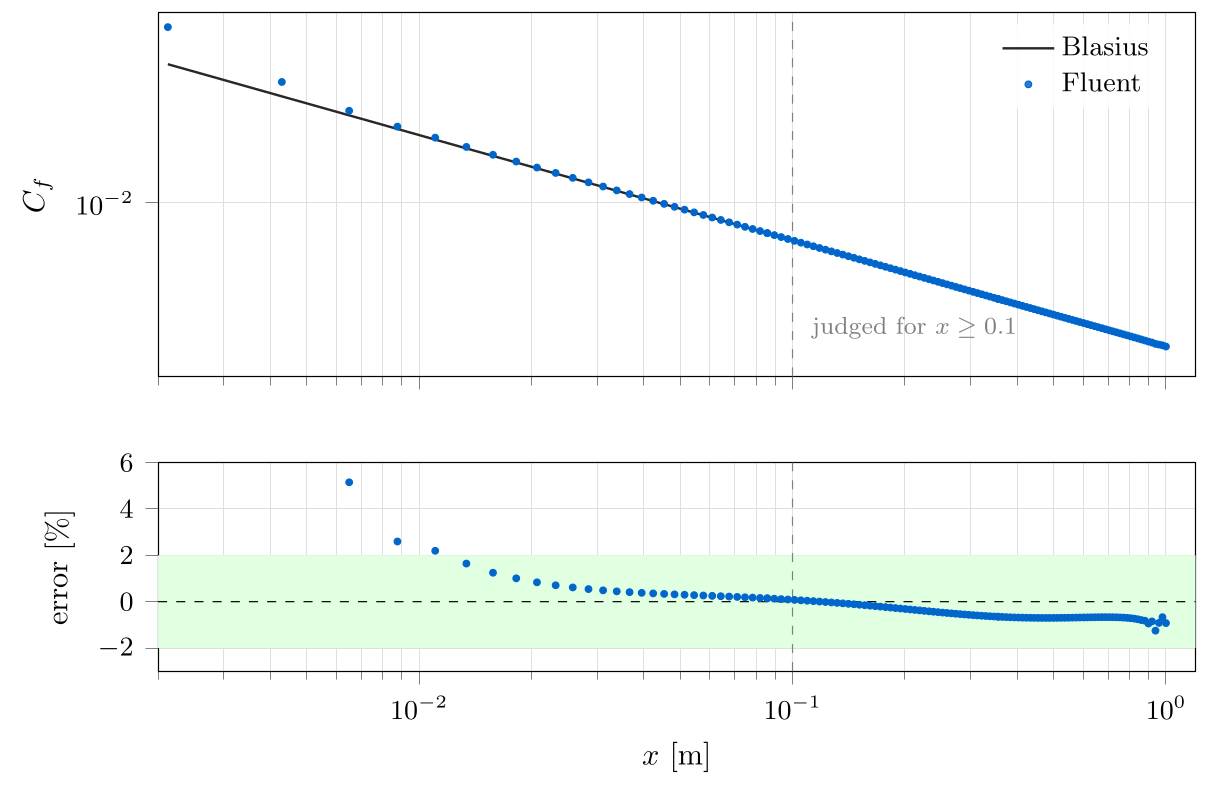
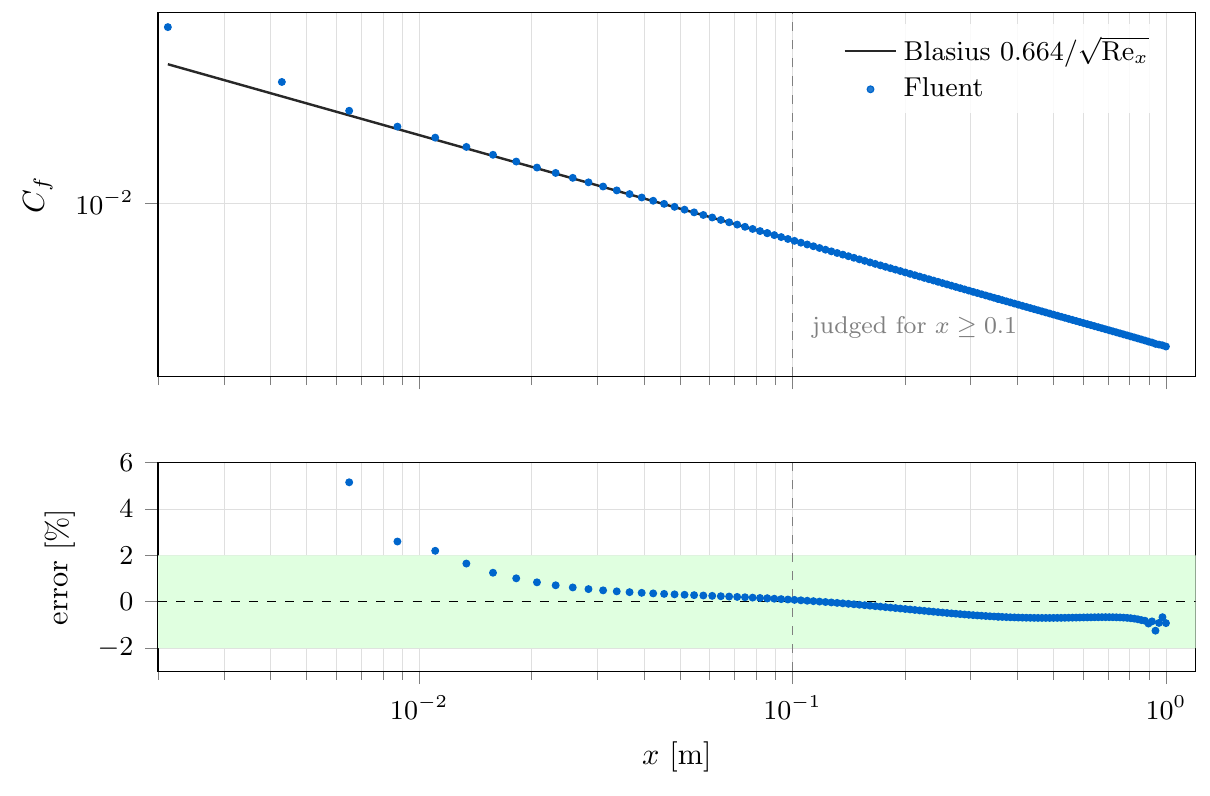
Show the Blasius formula in the skin friction legend

diff --git a/_portfolio/fluent-flat-plate.md b/_portfolio/fluent-flat-plate.md
@@ -101,10 +101,12 @@ wall are small enough.
 
 ![Skin friction](/images/flatplate/flatplate_cf.png)
 
-*Top: $$C_f$$ against Blasius. Bottom: error in percent, with the $$\pm 2\%$$ band shaded. Two
-points near the leading edge are off the scale ($$+50\%$$ and $$+17\%$$). The large error near
+*Top: $$C_f$$ against Blasius. Bottom: error in percent, with the $$\pm 2\%$$ band shaded. The first
+two points ($$x < 0.005$$ m, errors $$+50\%$$ and $$+17\%$$) are above the range of the bottom plot
+and are not shown there. The large error near
 $$x = 0$$ comes from the $$x^{-1/2}$$ singularity of the exact solution at the leading edge, not
-from a mesh failure.*
+from a mesh failure. Each marker is a mesh node on the wall. Fluent computes node values from the
+surrounding cell values, so the markers are not at the cell centers.*
 {: .caption}
 
 #### Wall heat flux
@@ -115,8 +117,10 @@ temperature gradient at the wall, and it tests the energy equation.
 ![Wall heat flux](/images/flatplate/flatplate_qw.png)
 
 *Wall heat flux against the exact $$65.339/\sqrt{x}$$ W/m², with the $$\pm 3\%$$
-band shaded. The error is between $$-0.27\%$$ and $$-0.54\%$$ over the judged range. One point
-near the leading edge is off the scale ($$+48\%$$).*
+band shaded. The error is between $$-0.27\%$$ and $$-0.54\%$$ over the judged range. The first
+point ($$x < 0.003$$ m, error $$+48\%$$) is above the range of the bottom plot and is not shown
+there. As for $$C_f$$, each marker is a mesh node on
+the wall.*
 {: .caption}
 
 #### Velocity profiles
@@ -128,7 +132,9 @@ Wall values test only the first cells. The profiles test the whole layer.
 *Top: velocity profiles at five stations, plotted against $$\eta$$, against the Blasius profile.
 Bottom: error $$u/U_e - f'(\eta)$$ in percent, with the $$\pm 1\%$$ band shaded. The velocity is
 divided by the local edge velocity $$U_e$$, so the comparison tests the shape of the profile. The
-largest error is $$0.32\%$$.*
+largest error is $$0.32\%$$. Each marker is a point where the vertical sampling line crosses a mesh
+line. Fluent interpolates the value there from the two mesh nodes of the crossed edge. The markers
+are not at the cell centers.*
 {: .caption}
 
 #### Mesh convergence
